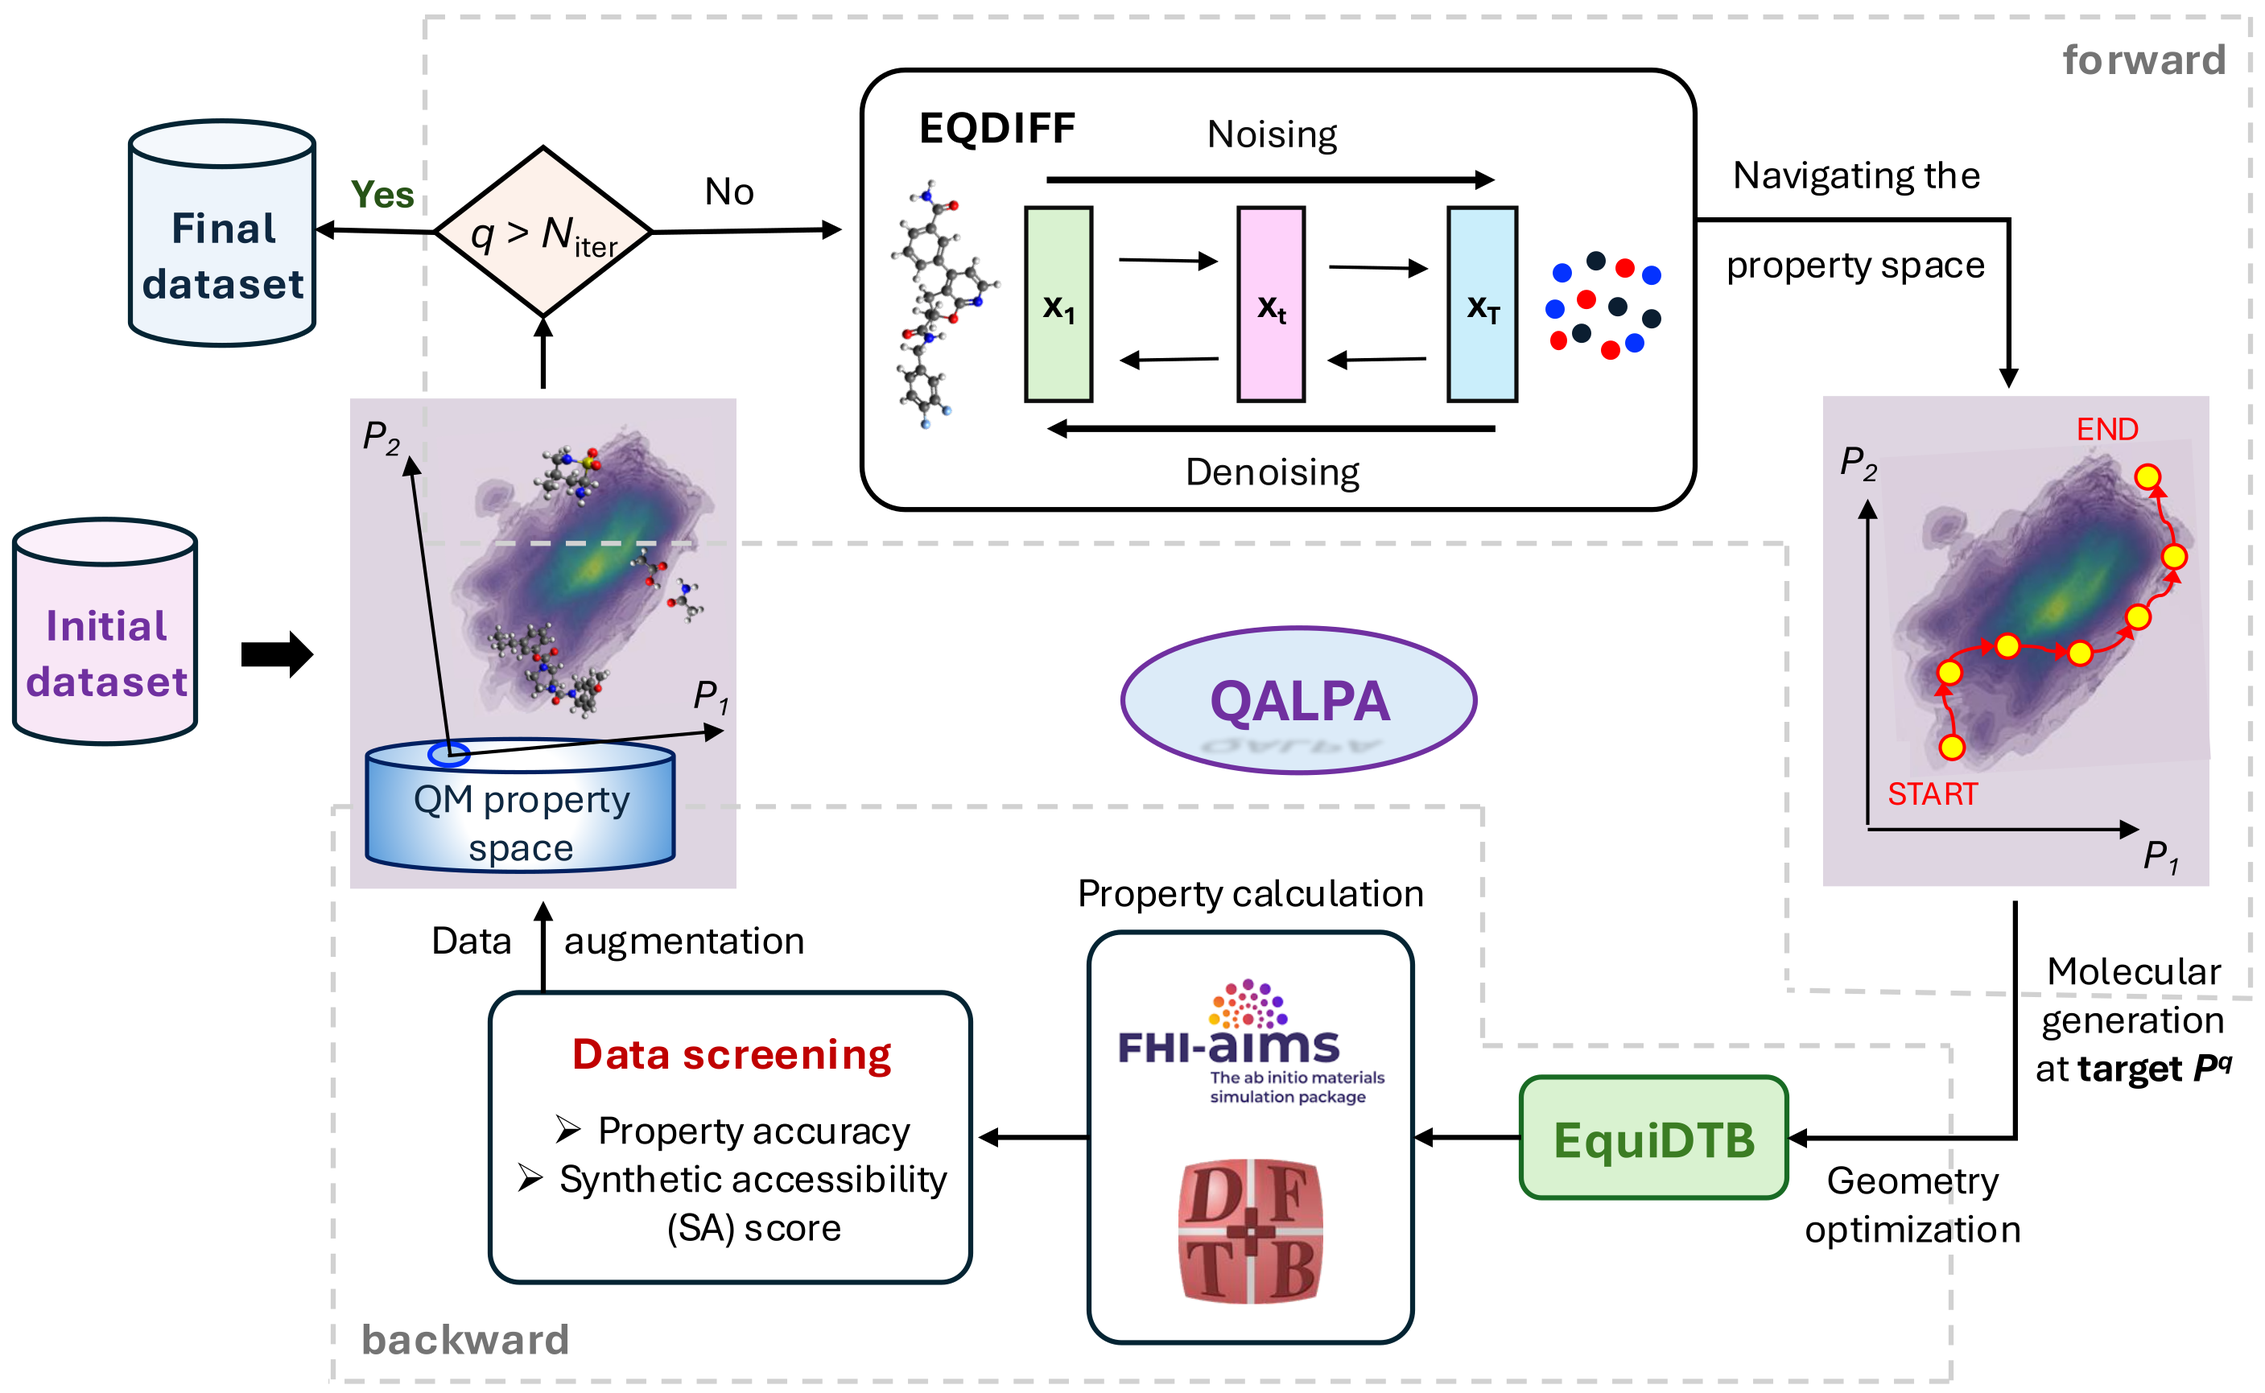
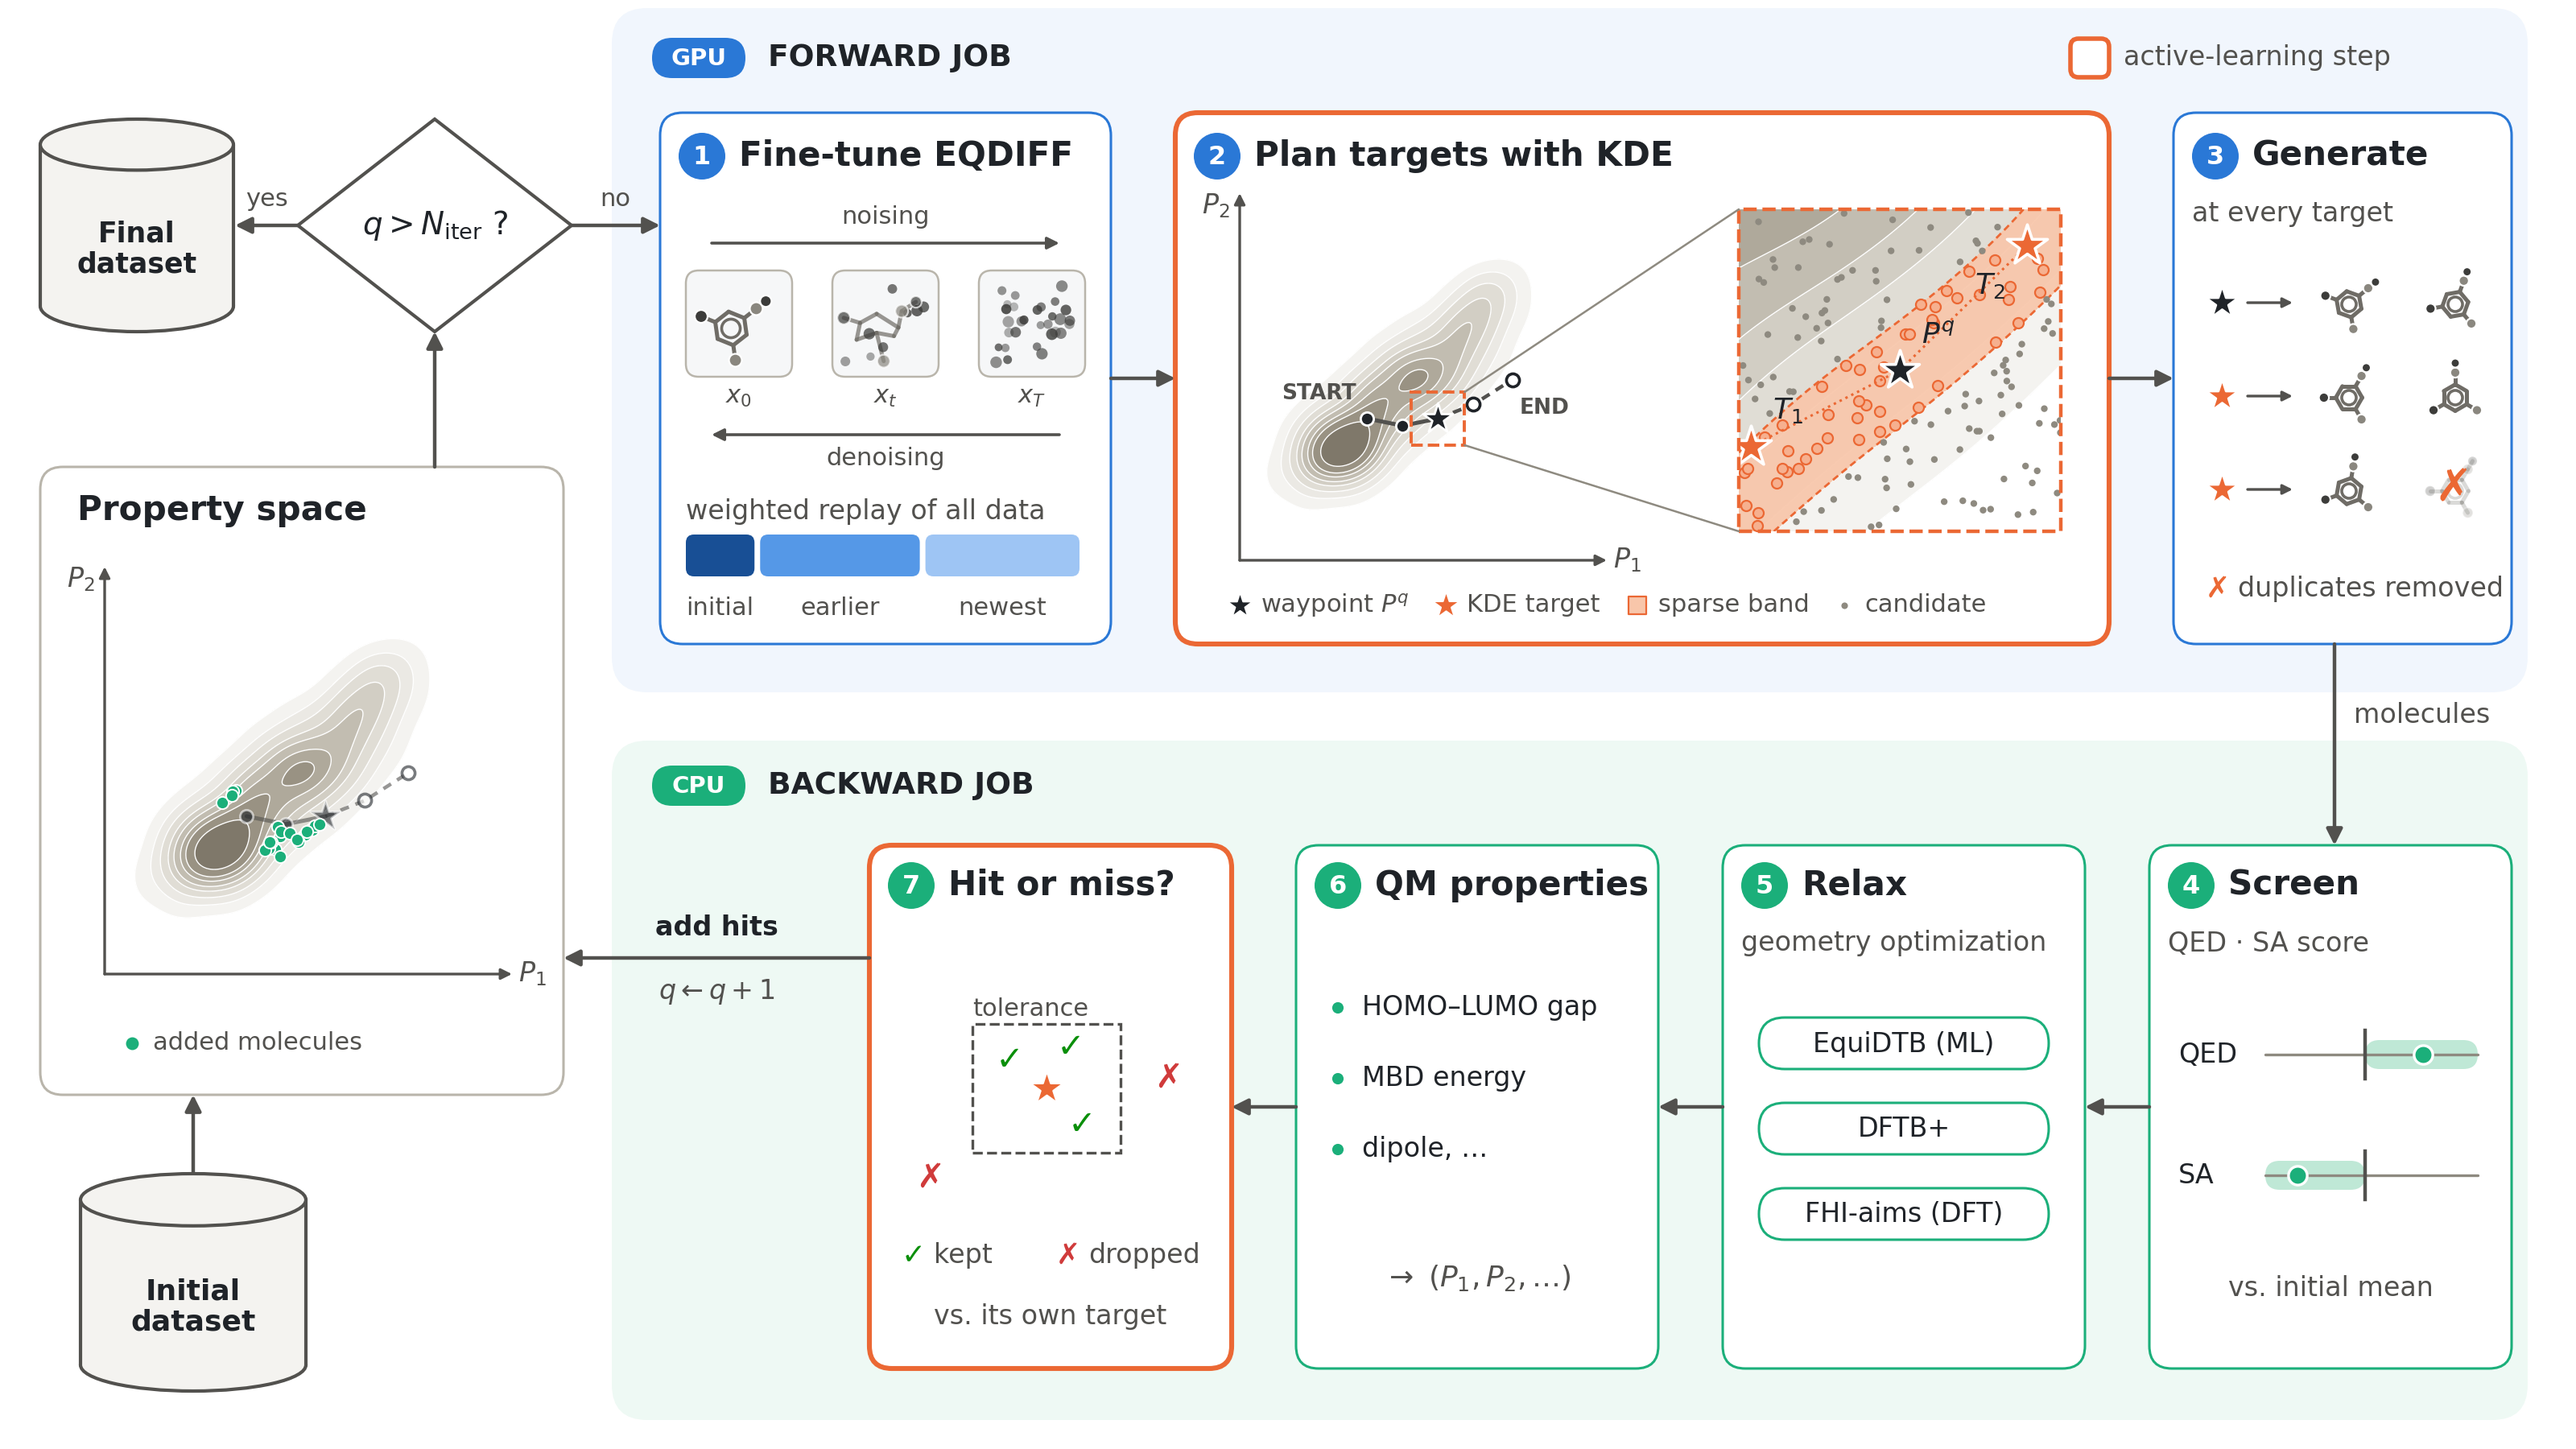
update figure

diff --git a/README.md b/README.md
@@ -17,7 +17,10 @@
 </p>
 
 <p align="center">
-  <img width="860" alt="QALPA workflow. Forward: the EQDIFF diffusion model navigates the QM property space along a trajectory from START to END and generates molecules at each target. Backward: EquiDTB geometry optimization, FHI-aims or DFTB+ property calculation, and data screening by property accuracy and SA score feed the new molecules back into the dataset until the last iteration." src="img/qalpa.png" />
+  <picture>
+    <source media="(prefers-color-scheme: dark)" srcset="img/qalpa-dark.png">
+    <img width="100%" alt="QALPA workflow. Forward job on a GPU: (1) fine-tune the EQDIFF diffusion model on a weighted replay of all data; (2) plan targets with KDE: around the current trajectory waypoint P^q, candidate targets are sampled in a box, kept if their density lies in a sparse band of the initial data, and spread out by farthest-point selection into KDE targets T1 and T2; (3) generate molecules at every target and remove duplicates. Backward job on CPUs: (4) screen QED and SA score against the initial dataset; (5) relax geometries with EquiDTB, DFTB+ or FHI-aims; (6) compute QM properties; (7) keep the molecules that hit their own target. The hits are added to the property space, and the loop repeats until q exceeds N_iter." src="img/qalpa.png">
+  </picture>
 </p>
 
 ## Table of contents
